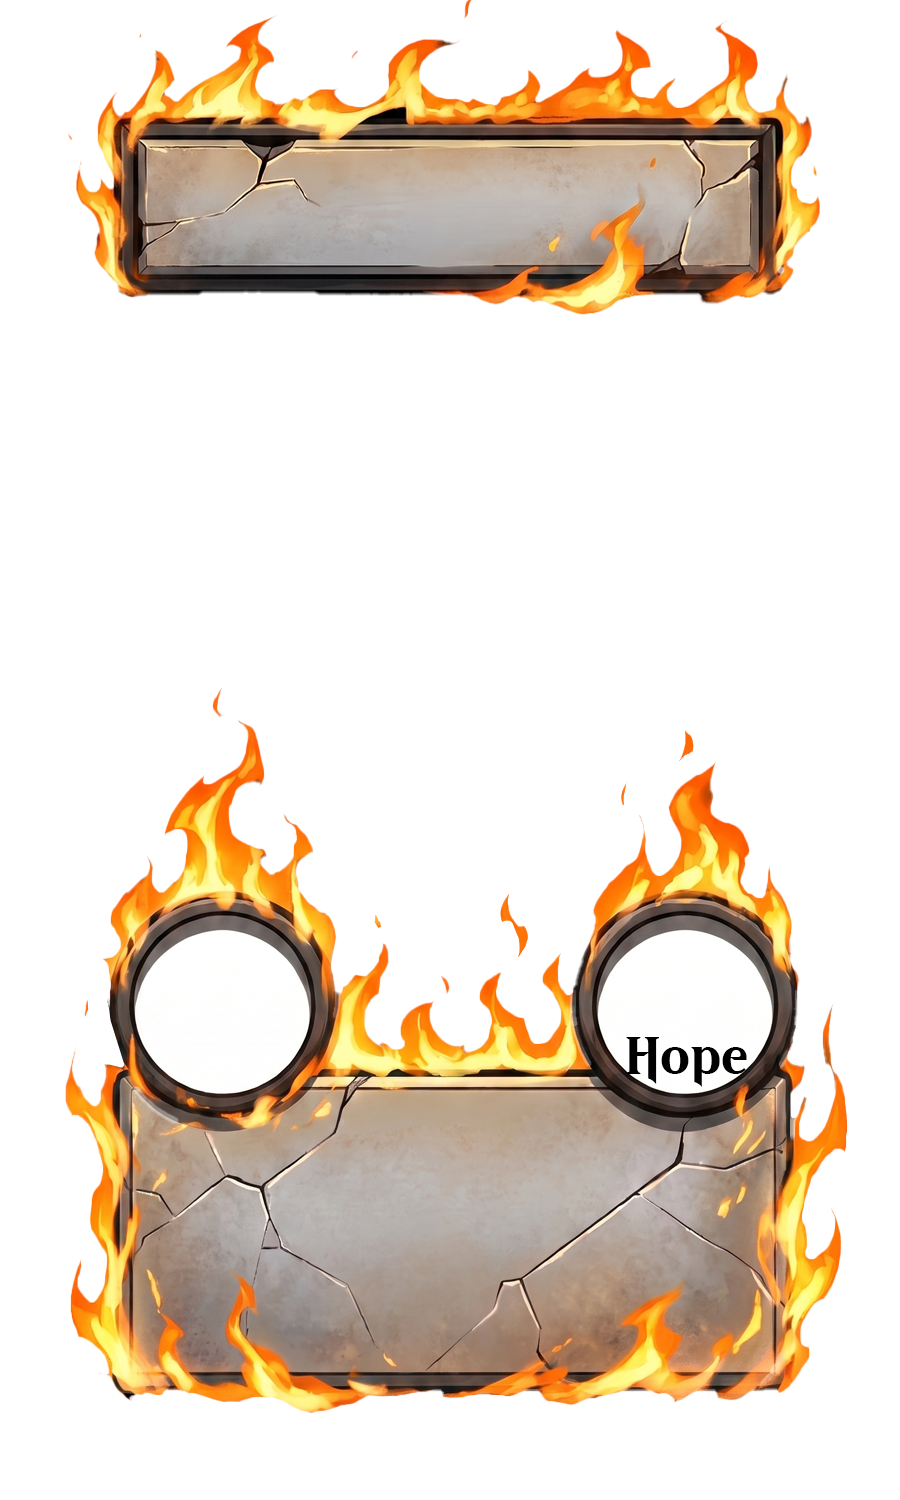
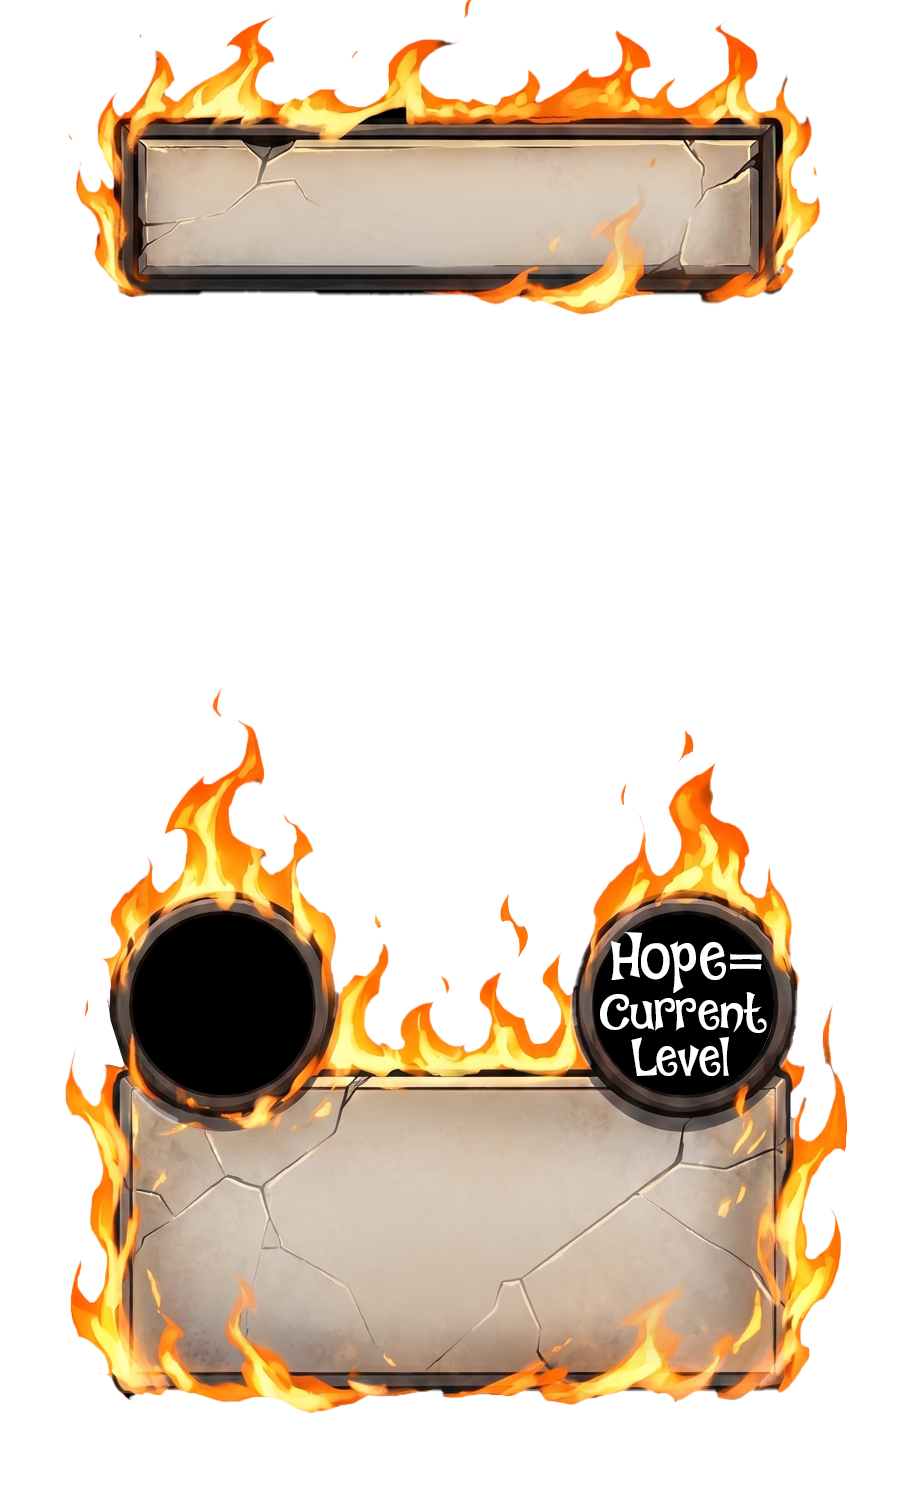
feat(azv): Mega Stuff takes a level; updated Mega Stuff overlay
Level input added to Mega Stuff in the builder (1–5) — authored for
grouping/organizing the deck, not drawn on the card (nothing in the
layout reads it for this type). Also pushes the replaced
Mega-Stuff-Overlay.png.

diff --git a/src/app/games/azv/packs/azvCardSpec.ts b/src/app/games/azv/packs/azvCardSpec.ts
@@ -87,8 +87,9 @@ export const AZV_TYPE_SPEC: Record<AZVCardType, AZVTypeSpec> = {
   },
   MegaStuff: {
     // No Hope on the card — Mega Stuff scales with play, its Hope being the
-    // current game level (1–5), so nothing is printed.
-    fields: { weaponType: true, description: true },
+    // current game level (1–5), so nothing is printed. Level is authored for
+    // organizing the deck but isn't drawn.
+    fields: { level: true, weaponType: true, description: true },
     overlay: MEGA,
   },
   GoodRoll: { fields: { level: true }, overlay: null },
